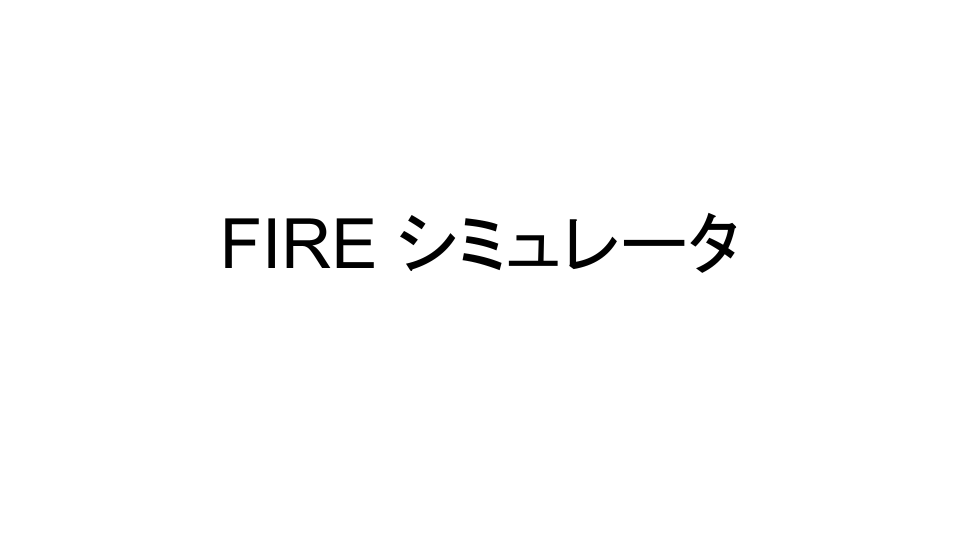
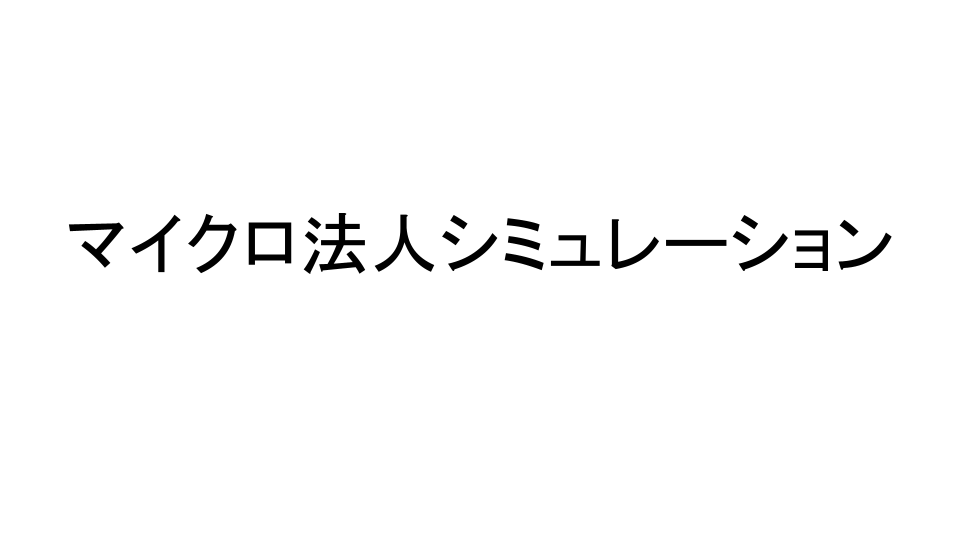
deploy: 73fe1b911e528dc4c86fba2d92f2c82bb13de4b2

Changed region(s): [[0.0625, 0.3852, 0.9375, 0.5037]]

diff --git a/index.html b/index.html
@@ -4,9 +4,9 @@
     <meta charset="UTF-8" />
     <link rel="icon" type="image/svg+xml" href="/vite.svg" />
     <meta name="viewport" content="width=device-width, initial-scale=1.0" />
-    <title>micro-corp | FIRE後社会保険シミュレーター</title>
+    <title>マイクロ法人シミュレーション | FIRE後社会保険シミュレーター</title>
     <meta name="description" content="FIRE後の社会保険料（国保、任意継続、マイクロ法人）をシミュレーション・比較できるツールです。" />
-    <meta property="og:title" content="micro-corp | FIRE後社会保険シミュレーター" />
+    <meta property="og:title" content="マイクロ法人シミュレーション | FIRE後社会保険シミュレーター" />
     <meta property="og:description" content="国保、任意継続、マイクロ法人の年間コストを徹底比較。最適な役員報酬をシミュレーション。" />
     <meta property="og:type" content="website" />
     <meta property="og:url" content="https://freddiefujiwara.com/micro-corp/" />

diff --git a/404.html b/404.html
@@ -3,9 +3,9 @@
   <head>
     <meta charset="utf-8">
     <meta name="viewport" content="width=device-width, initial-scale=1.0" />
-    <title>micro-corp | FIRE後社会保険シミュレーター</title>
+    <title>マイクロ法人シミュレーション | FIRE後社会保険シミュレーター</title>
     <meta name="description" content="FIRE後の社会保険料（国保、任意継続、マイクロ法人）をシミュレーション・比較できるツールです。" />
-    <meta property="og:title" content="micro-corp | FIRE後社会保険シミュレーター" />
+    <meta property="og:title" content="マイクロ法人シミュレーション | FIRE後社会保険シミュレーター" />
     <meta property="og:description" content="国保、任意継続、マイクロ法人の年間コストを徹底比較。最適な役員報酬をシミュレーション。" />
     <meta property="og:type" content="website" />
     <meta property="og:url" content="https://freddiefujiwara.com/micro-corp/" />
